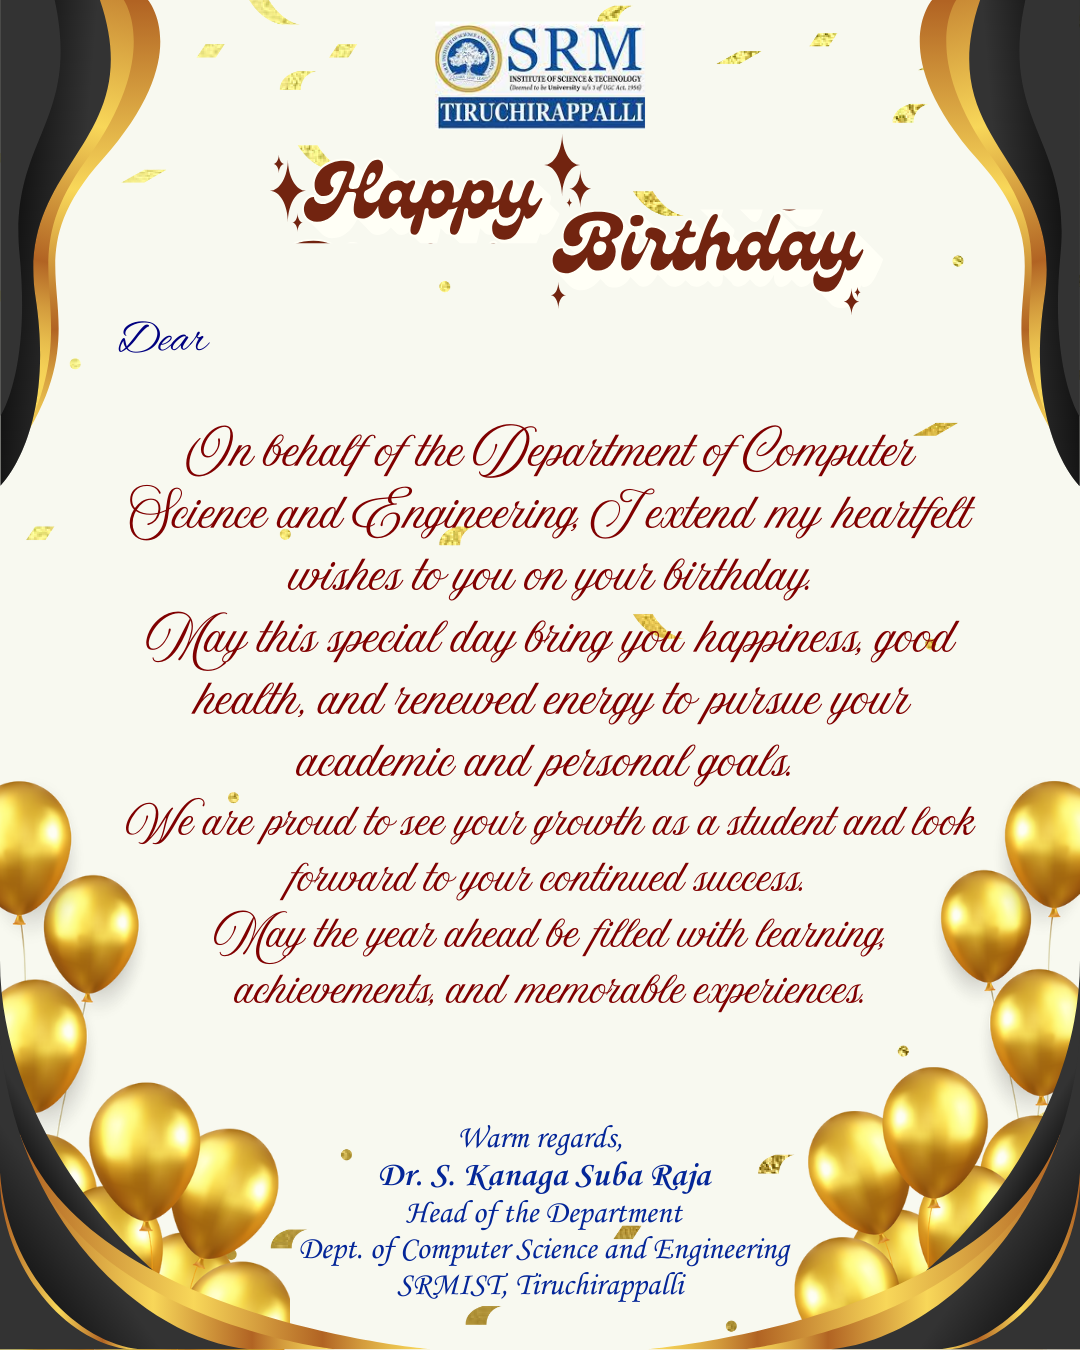
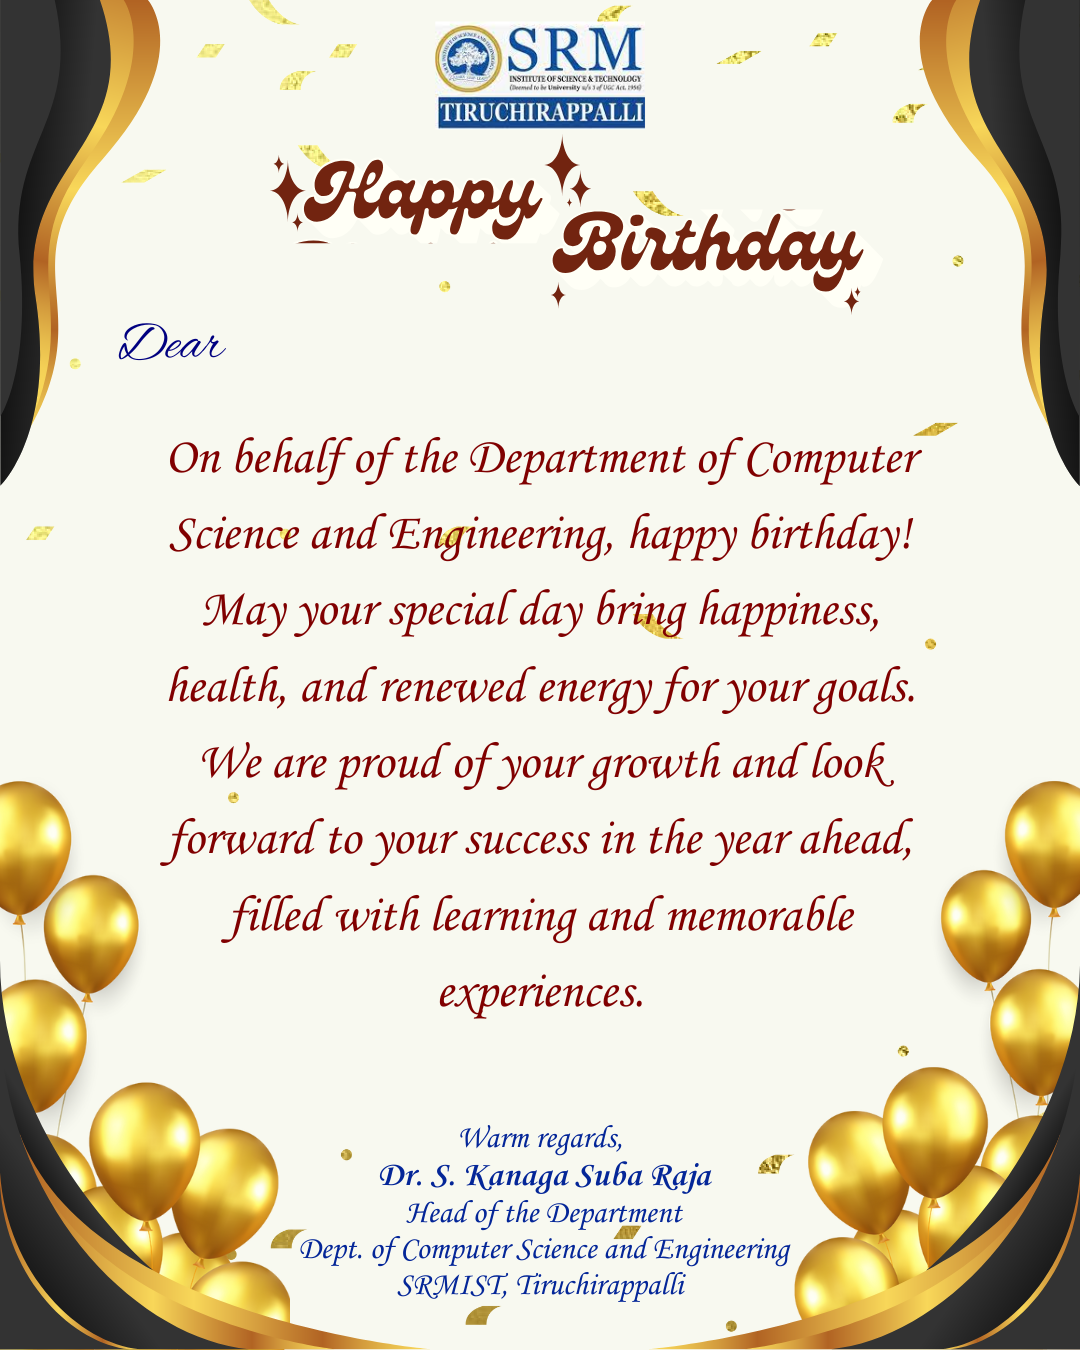
chore: card change with name tag pixel diff change

Changed region(s): [[0.1222, 0.3111, 0.9167, 0.7467], [0.0917, 0.2178, 0.2139, 0.28], [0.8861, 0.9956, 1.0, 1.0]]

diff --git a/server/main.py b/server/main.py
@@ -72,12 +72,12 @@ CSV_PATH = os.path.normpath(os.path.join(BASE_DIR, "..", "data", "All_StudentMas
 
 
 def create_birthday_card(name: str) -> str:
-    """Create a custom birthday card image with name & AI-generated message."""
+    """Create a custom birthday card image with name"""
     img = Image.open(CARD_TEMPLATE)
     draw = ImageDraw.Draw(img)
-    name_font = ImageFont.truetype(FONT_PATH, 45)
-    draw.text((220, 310), name, font=name_font, fill="#000080")
-    output_path = os.path.join(BASE_DIR, "birthday_card_custom.png")
+    name_font = ImageFont.truetype(FONT_PATH, 48)
+    draw.text((235, 315), f"{name} ,", font=name_font, fill="#000080")
+    output_path = os.path.join(BASE_DIR, "birthday_result.png")
     img.save(output_path)
     return output_path
 
@@ -662,3 +662,6 @@ def server_error(e):
 if __name__ == "__main__":
     # Default port changed earlier in Electron fetches to 8000; keep 5000 if you run separately
     app.run(host="0.0.0.0", port=int(os.getenv("PORT", "5000")), debug=True)
+
+
+# create_birthday_card("S. Shaun Benedict")
